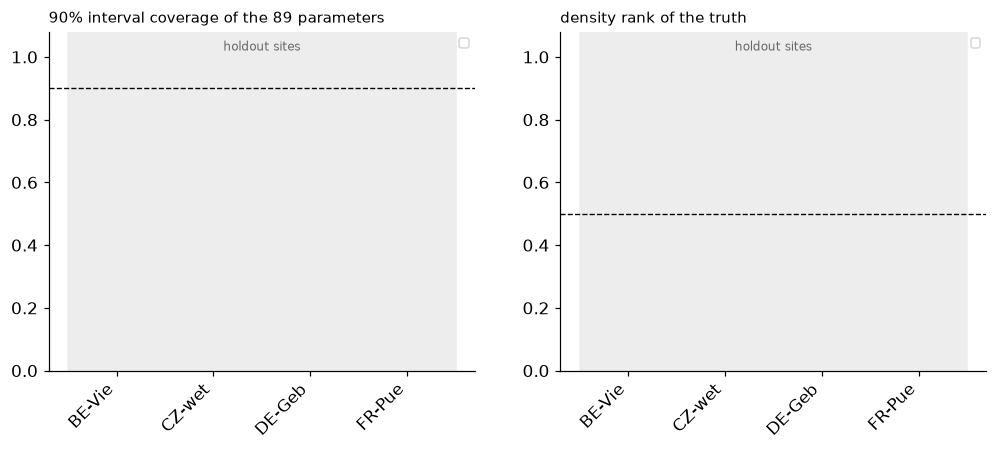
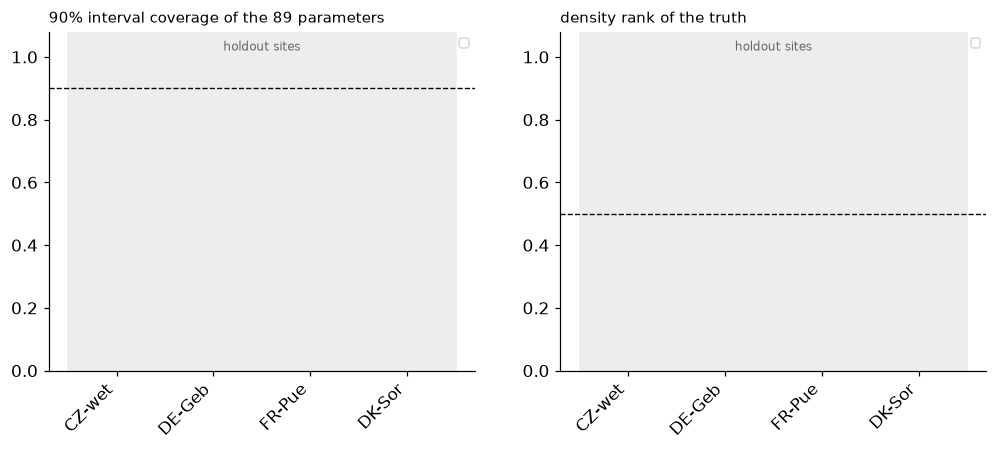
protocol: BE-Vie replaces DK-Sor in the development set (DK-Sor has no plausible real-data mode); advisor tool; notifier
Claude-Session: https://claude.ai/code/session_01EtMWeqbawAK9mUR4GH8rQ1

diff --git a/docs/index.html b/docs/index.html
@@ -11,7 +11,7 @@ th{background:#f4f6f8} code{background:#f4f6f8;padding:0 .2rem} pre{background:#
 .kpi b{display:block;font-size:1.4rem} .small{color:#666;font-size:.85rem}
 </style></head><body>
 <h1>SARLA autoresearch: making CARDAMOM's calibration fast without making it wrong</h1>
-<p class="small">Updated 2026-09-01 21:46 PDT. An automated research loop run by a Claude Code session, with a Codex advisor
+<p class="small">Updated 2026-09-01 21:52 PDT. An automated research loop run by a Claude Code session, with a Codex advisor
 after each iteration. Repository: <a href="https://github.com/sudshu/sarla-autoresearch">sudshu/sarla-autoresearch</a>.</p>
 
 <h2>In one paragraph</h2>
@@ -115,10 +115,11 @@ posterior is too narrow or misplaced). Grey band: holdout sites.</p>
 <p>Each term is a distance from its target in units of about its binomial</p>
 <p>noise floor (sd(cover90) = 0.032 over 89 parameters).</p>
 <p><b>Sites and split.</b> Eight CARDAMOM-FluxVal sites (FLUXNET2015, CC-BY-4.0).</p>
-<p>Development set, drives accept/reject: NL-Loo (183, ENF), DK-Sor (71, DBF),</p>
-<p>DE-Gri (58, GRA), ES-LJu (178, OSH). Holdout set, scored only at milestones,</p>
-<p>never used to choose: BE-Vie (26, MF), CZ-wet (55, WET), DE-Geb (57, CRO),</p>
-<p>FR-Pue (82, EBF). Every site has 192 monthly steps with observations ending</p>
+<p>Development set, drives accept/reject: NL-Loo (183, ENF), DE-Gri (58, GRA),</p>
+<p>ES-LJu (178, OSH), BE-Vie (26, MF). Holdout set, scored only at milestones,</p>
+<p>never used to choose: CZ-wet (55, WET), DE-Geb (57, CRO), FR-Pue (82, EBF),</p>
+<p>DK-Sor (71, DBF; no real-data mode reaches 30% of its observed GPP, so its</p>
+<p>truth uses a relaxed 20% plausibility bound and is flagged). Every site has 192 monthly steps with observations ending</p>
 <p>by step 113, so the last 78+ months are a projection test at every site.</p>
 <p><b>Truth.</b> Per site: a plausible EDC-feasible point near (not at) one of the</p>
 <p>pilot&#x27;s real-data L-BFGS modes -- a random plausible mode plus N(0, 0.3 prior</p>

diff --git a/tools/advisor.py b/tools/advisor.py
@@ -1,0 +1,106 @@
+"""Codex advisor: after each iteration, ask an independent model to weigh in.
+
+    advisor.py --iter N [--model MODEL] [--effort high]
+
+Builds a briefing from the protocol, the run history (autoresearch.jsonl),
+the iteration's aggregate scores and the idea bank -- aggregate numbers only,
+no observation data -- and runs `codex exec` with the requested reasoning
+effort. The reply is saved to experiments/NNN/advisor.md. The loop's own
+researcher reads it and decides what to implement; nothing is automatic.
+"""
+import argparse
+import json
+import os
+import subprocess
+import sys
+
+HERE = os.path.dirname(os.path.abspath(__file__))
+AR = os.path.dirname(HERE)
+
+PROMPT = """You are the external advisor of an autonomous research loop that improves
+SARLA, a GPU posterior sampler for an 89-parameter land carbon model
+(CARDAMOM / DALEC_1100). Read the protocol, the history and this iteration's
+results below, then answer in <= 600 words with these sections:
+
+1. ASSESSMENT: what the numbers say about this iteration (which terms of the
+   calibration gap moved, per-site consistency, any sign of overfitting to the
+   development sites or to a single truth).
+2. RISKS: anything in the protocol or the results that could mislead us.
+3. NEXT STEPS: 3-5 concrete, testable proposals ranked by expected payoff,
+   each as one sentence of rationale plus the variant knobs to change
+   (use the knob names from the variant JSON). Mark proposals that need new
+   code rather than a config change.
+4. STOP/CONTINUE: whether a hypothesis family should be abandoned.
+
+Be specific and quantitative; do not restate the protocol.
+
+=== PROTOCOL ===
+{protocol}
+
+=== RUN HISTORY (autoresearch.jsonl) ===
+{history}
+
+=== THIS ITERATION: aggregate.json ===
+{aggregate}
+
+=== IDEA BANK ===
+{ideas}
+
+=== BASELINE VARIANT (knob names) ===
+{variant}
+"""
+
+
+def main():
+    ap = argparse.ArgumentParser()
+    ap.add_argument("--iter", type=int, required=True)
+    ap.add_argument("--model", default=None)
+    ap.add_argument("--effort", default="high")
+    ap.add_argument("--timeout", type=int, default=1500)
+    a = ap.parse_args()
+    ed = os.path.join(AR, "experiments", f"{a.iter:03d}")
+    agg = json.load(open(os.path.join(ed, "aggregate.json")))
+    slim = {v: {k: val for k, val in s.items() if k != "per_site"}
+            | {"per_site": {site: {kk: vv for kk, vv in ps.items() if kk != "entries"}
+                            | {"terms": ps["entries"][0]["terms"],
+                               "cover90": ps["entries"][0]["cover90"],
+                               "cover50": ps["entries"][0]["cover50"],
+                               "rank": ps["entries"][0]["rank"],
+                               "rms_z": ps["entries"][0]["rms_z"],
+                               "stuck_frac": ps["entries"][0]["stuck_frac"],
+                               "proj_cover90": ps["entries"][0]["proj"]}
+                            for site, ps in s["per_site"].items()}}
+            for v, s in agg.items()}
+    hist = [l for l in open(os.path.join(AR, "autoresearch.jsonl")) if l.strip()]
+    prompt = PROMPT.format(
+        protocol=open(os.path.join(AR, "autoresearch.md")).read(),
+        history="".join(hist[-40:]),
+        aggregate=json.dumps(slim, indent=1),
+        ideas=open(os.path.join(AR, "autoresearch.ideas.md")).read(),
+        variant=open(os.path.join(AR, "variants", "v3_baseline.json")).read())
+    out = os.path.join(ed, "advisor.md")
+    cmd = ["codex", "exec", "--skip-git-repo-check", "-s", "read-only", "-C", ed,
+           "-c", f'model_reasoning_effort="{a.effort}"', "-o", out + ".raw"]
+    if a.model:
+        cmd += ["-m", a.model]
+    cmd.append(prompt)
+    open(os.path.join(ed, "advisor_prompt.txt"), "w").write(prompt)
+    try:
+        r = subprocess.run(cmd, capture_output=True, text=True, timeout=a.timeout)
+    except subprocess.TimeoutExpired:
+        open(out, "w").write("(advisor timed out)\n")
+        print("advisor timed out"); return
+    text = open(out + ".raw").read() if os.path.exists(out + ".raw") else r.stdout
+    header = (f"# Codex advisor, iteration {a.iter:03d}\n\n"
+              f"model {a.model or 'default (config.toml)'}, reasoning effort {a.effort}, "
+              f"rc {r.returncode}\n\n")
+    open(out, "w").write(header + text.strip() + "\n")
+    if os.path.exists(out + ".raw"):
+        os.remove(out + ".raw")
+    print(f"wrote {out} ({len(text)} chars, rc {r.returncode})")
+    if r.returncode:
+        print(r.stderr[-1500:])
+
+
+if __name__ == "__main__":
+    main()

diff --git a/tools/build_site.py b/tools/build_site.py
@@ -20,8 +20,8 @@ HERE = os.path.dirname(os.path.abspath(__file__))
 AR = os.path.dirname(HERE)
 DOCS = os.path.join(AR, "docs")
 CH = os.path.join(DOCS, "charts")
-DEV = [183, 71, 58, 178]
-HOLDOUT = [26, 55, 57, 82]
+DEV = [183, 58, 178, 26]
+HOLDOUT = [55, 57, 82, 71]
 NAMES = {26: "BE-Vie (MF)", 55: "CZ-wet (WET)", 57: "DE-Geb (CRO)", 58: "DE-Gri (GRA)",
          71: "DK-Sor (DBF)", 82: "FR-Pue (EBF)", 178: "ES-LJu (OSH)", 183: "NL-Loo (ENF)"}
 STATUS_COLOR = {"keep": "#2166ac", "discard": "#b2182b", "dev-only": "#e08214",

diff --git a/tools/loop.py b/tools/loop.py
@@ -24,8 +24,8 @@ AR = os.path.dirname(HERE)
 ROOT = os.path.dirname(AR)
 LOCAL = os.path.join(ROOT, "runs", "autoresearch")
 PY = os.path.join(ROOT, ".venv", "bin", "python")
-DEV = [183, 71, 58, 178]
-HOLDOUT = [26, 55, 57, 82]
+DEV = [183, 58, 178, 26]
+HOLDOUT = [55, 57, 82, 71]
 SITE_NAMES = {26: "BE-Vie", 55: "CZ-wet", 57: "DE-Geb", 58: "DE-Gri", 71: "DK-Sor",
               82: "FR-Pue", 178: "ES-LJu", 183: "NL-Loo"}
 

diff --git a/autoresearch.md b/autoresearch.md
@@ -31,10 +31,11 @@ Each term is a distance from its target in units of about its binomial
 noise floor (sd(cover90) = 0.032 over 89 parameters).
 
 **Sites and split.** Eight CARDAMOM-FluxVal sites (FLUXNET2015, CC-BY-4.0).
-Development set, drives accept/reject: NL-Loo (183, ENF), DK-Sor (71, DBF),
-DE-Gri (58, GRA), ES-LJu (178, OSH). Holdout set, scored only at milestones,
-never used to choose: BE-Vie (26, MF), CZ-wet (55, WET), DE-Geb (57, CRO),
-FR-Pue (82, EBF). Every site has 192 monthly steps with observations ending
+Development set, drives accept/reject: NL-Loo (183, ENF), DE-Gri (58, GRA),
+ES-LJu (178, OSH), BE-Vie (26, MF). Holdout set, scored only at milestones,
+never used to choose: CZ-wet (55, WET), DE-Geb (57, CRO), FR-Pue (82, EBF),
+DK-Sor (71, DBF; no real-data mode reaches 30% of its observed GPP, so its
+truth uses a relaxed 20% plausibility bound and is flagged). Every site has 192 monthly steps with observations ending
 by step 113, so the last 78+ months are a projection test at every site.
 
 **Truth.** Per site: a plausible EDC-feasible point near (not at) one of the
